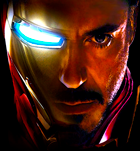
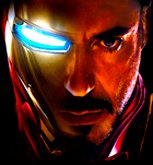
backgrounds added

diff --git a/src/main/Window.java b/src/main/Window.java
@@ -12,7 +12,11 @@ import javax.swing.JButton;
 import javax.swing.JLabel;
 import javax.swing.JOptionPane;
 import javax.swing.SwingConstants;
+
+import java.awt.Color;
 import java.awt.Font;
+import java.awt.event.MouseAdapter;
+import java.awt.event.MouseEvent;
 
 public class Window extends JFrame implements ActionListener {
     
@@ -28,7 +32,7 @@ public class Window extends JFrame implements ActionListener {
     
     public JButton btn1, btn2, btn3, btn4, btn5, btn6, btn7, btn8, btn9, btn10, btn11, btn12, btn13, btn14, btn15, btn16, btn17, btn18;
     JButton[] btns = {btn1, btn2, btn3, btn4, btn5, btn6, btn7, btn8, btn9, btn10, btn11, btn12, btn13, btn14, btn15, btn16, btn17, btn18};
-    JButton reset,nuevoJuego,regresar;
+    JButton reset,nuevoJuego,regresar,back,mute;
     
     public String[] images = {
             "views/i (1).png", "views/i (2).png", "views/i (3).png", "views/i (4).png", "views/i (5).png", "views/i (6).png",
@@ -62,11 +66,12 @@ public class Window extends JFrame implements ActionListener {
 
 
         pane = new JPanel();
-        pane.setBounds(10, 45, 892, 531);
+        pane.setBounds(10, 45, 912, 531);
         contentPane.add(pane);
         pane.setLayout(null);
         pane.setVisible(false);
-
+        pane.setBackground(new Color(0,0,0,0));
+        
         btns[0] = new JButton();
         btns[0].setBounds(0, 0, 140, 165);
         pane.add(btns[0]);
@@ -197,8 +202,11 @@ public class Window extends JFrame implements ActionListener {
         contentPane.add(nuevoJuego);
         
         background = new JLabel("");
-        background.setBounds(0, 0, 900, 831);
+        background.setBounds(0, 6, 922, 623);
         contentPane.add(background);
+        chrono.setForeground(Color.white);
+        
+       
 
     }
 
@@ -445,6 +453,7 @@ public class Window extends JFrame implements ActionListener {
             gtimer = timer;
 
         }
+        
         
     }
 }

diff --git a/src/main/Menu.java b/src/main/Menu.java
@@ -126,9 +126,11 @@ public class Menu extends JFrame implements ActionListener {
                 w.cover = "views/mad.png";
                 f.randomizer(w.images);
                 choice = 1;
+
                 w.start(w.images, w.btns, w.pane);
                 Collections.shuffle(f.imagenes);
                 w.setVisible(true);
+                w.background.setIcon(new ImageIcon("views/championswp.png"));
                 music("music/champions.wav");
                 this.setVisible(false);
 
@@ -136,18 +138,20 @@ public class Menu extends JFrame implements ActionListener {
                 w.cover = "cr/logo.png";
                 choice = 2;
                 f.randomizer(w.images2);
+                w.background.setIcon(new ImageIcon("cr/crwp.png"));
                 w.start(w.images2, w.btns, w.pane);
                 Collections.shuffle(f.imagenes);
                 w.setVisible(true);
                 music("music/crmenutheme.wav");
-                w.background.setIcon(new ImageIcon("views/championswp.png"));
+                
+
                 this.setVisible(false);
             
             
 
         }else if (e.getSource() == marv) {
             w.cover = "marv/marvcov.png";
-
+            w.background.setIcon(new ImageIcon("marv/marvwp.png"));
             f.randomizer(w.images3);
             choice = 3;
             w.start(w.images3, w.btns, w.pane);
@@ -184,6 +188,8 @@ public class Menu extends JFrame implements ActionListener {
 
             }
             Collections.shuffle(f.imagenes);
+        }else if(e.getSource()== w.back) {
+        	clip.stop();
         }
         
         
@@ -196,7 +202,6 @@ public class Menu extends JFrame implements ActionListener {
     		    clip.open(AudioSystem.getAudioInputStream(file));
     		    clip.start();
     		    clip.loop(clip.LOOP_CONTINUOUSLY);
-
 
             }catch(Exception e){
     		    System.err.println(e.getMessage());

diff --git a/src/main/Functions.java b/src/main/Functions.java
@@ -37,17 +37,18 @@ public class Functions {
 
 
     public Boolean checker(List<Images> imlist, String cover,Timer timer,int contadorm,int contadors,int contadorms) {
-        int x = 0;
+        
         List<Images> list2 = new ArrayList<>();
+        
         for (Images imagen : imlist) {
             if (imagen.getStat() == "abierta") {
-                x++;
+                
                 list2.add(imagen);
             }
         }
-        if (x < 2) {
+        if (list2.size() < 2) {
             return true;
-        } else if (x == 2) {
+        } else if (list2.size() == 2) {
             for (Images imag : list2) {
                 String url1 = imag.getUrl();
                 for (Images imag2 : list2) {
